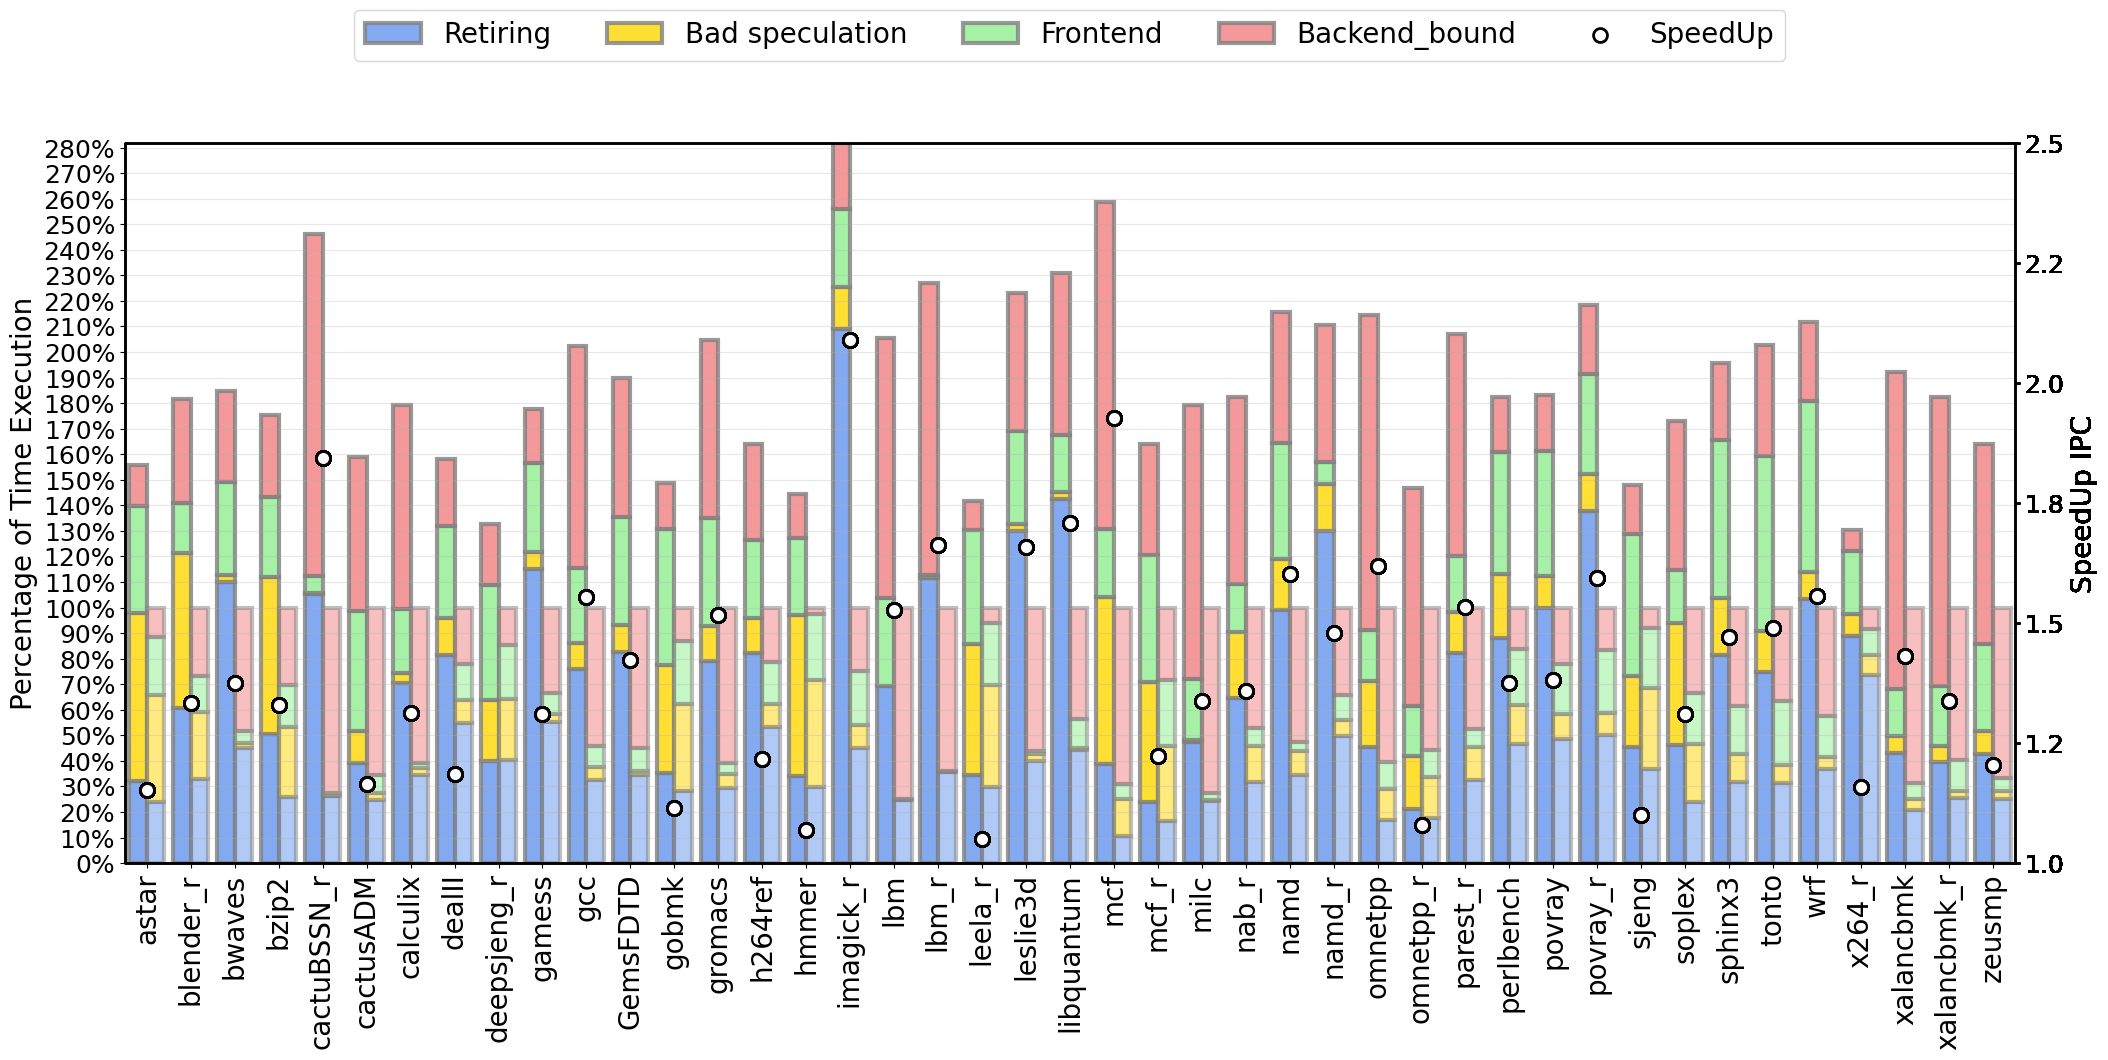
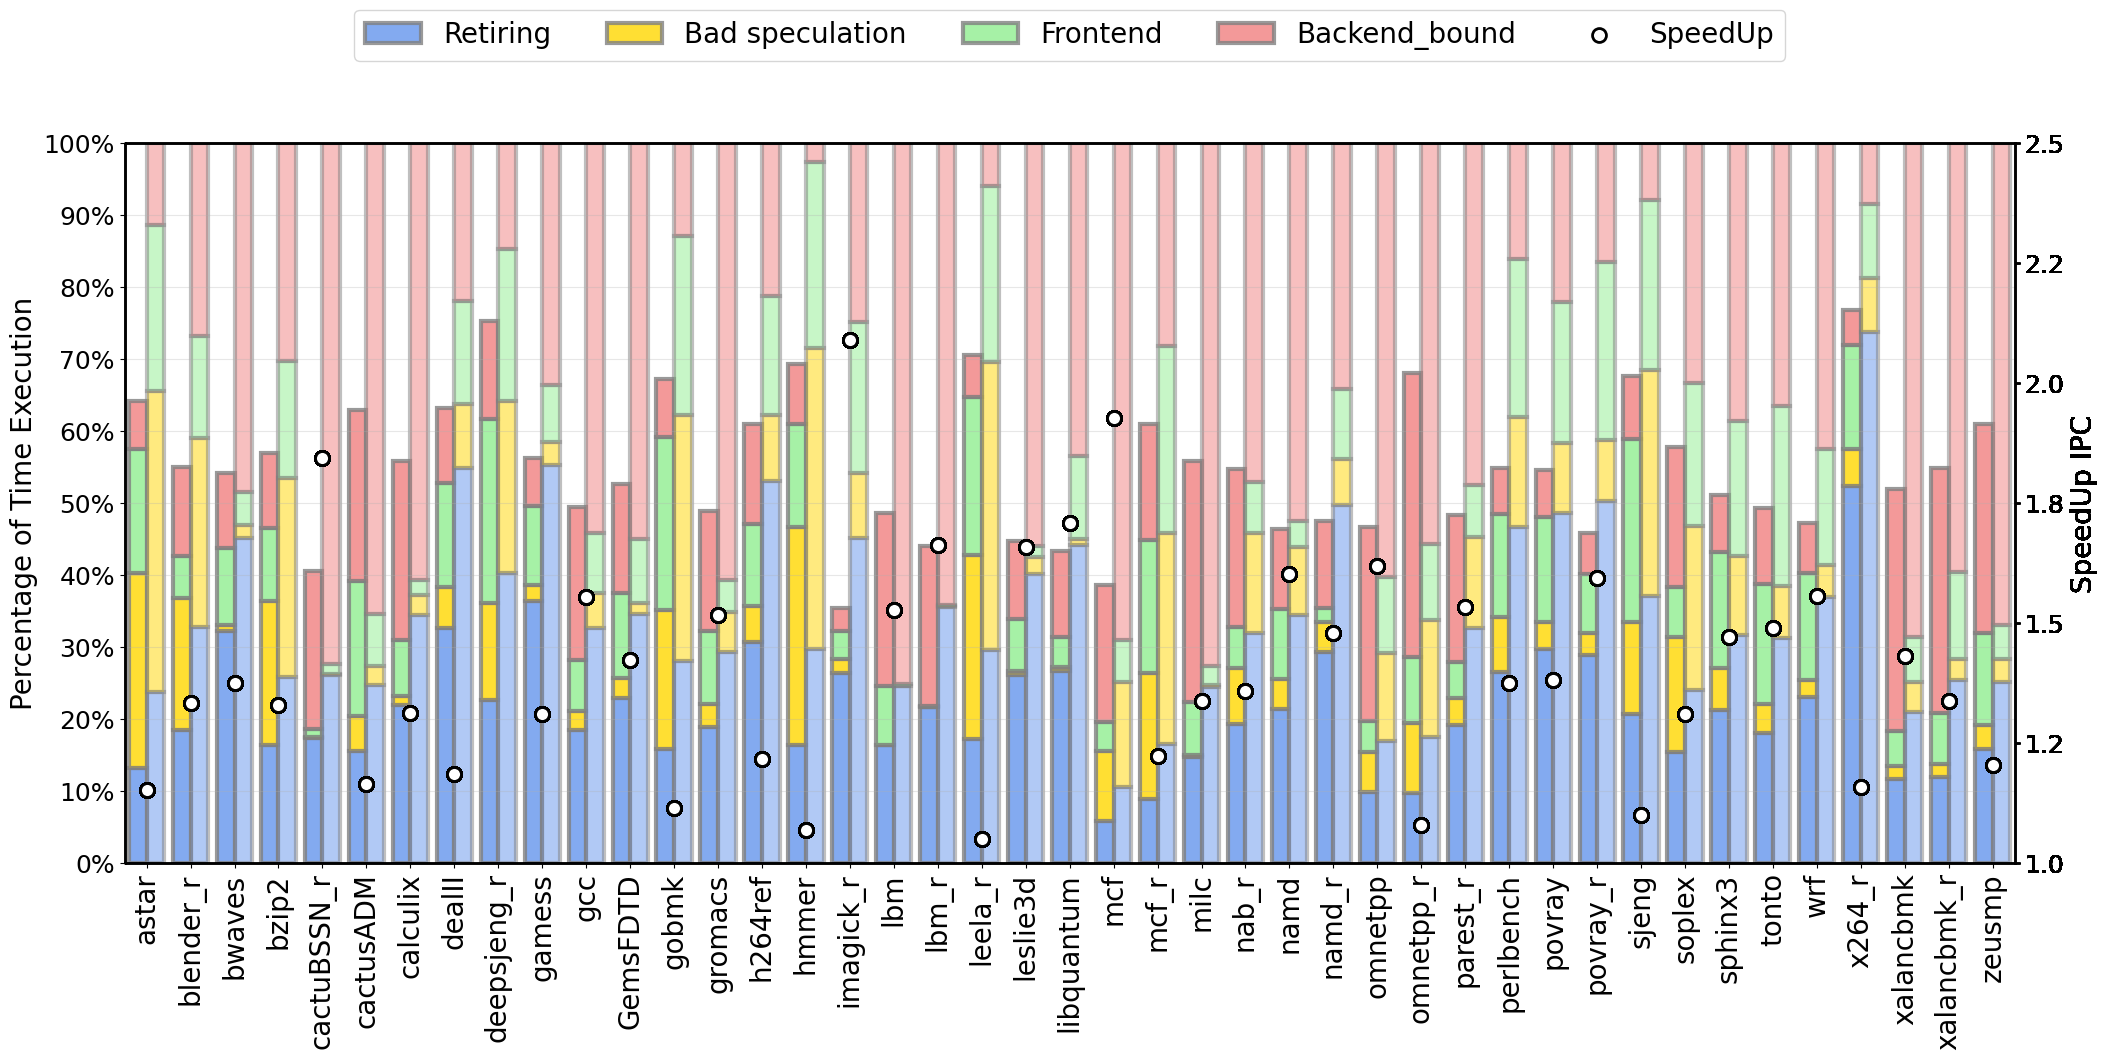
P over E

diff --git a/comparativa_topdown.py b/comparativa_topdown.py
@@ -41,7 +41,7 @@ def main():
             print(f"Error: Las aplicaciones no coinciden: {datos_P[0]} vs {datos_E[0]}")
             continue
 
-        speedup_tiempo = float(datos_E[1]) / float(datos_P[1])
+        speedup_tiempo = float(datos_P[1]) / float(datos_E[1])
         app_names.append(datos_P[0])
 
         retiring_values.append((speedup_tiempo * float(datos_P[2]), float(datos_E[2])))
